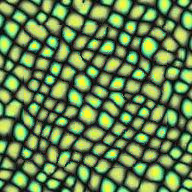
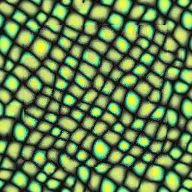
update

diff --git a/PointCloudRetouch/MultithreadTextureSynthesizer.cpp b/PointCloudRetouch/MultithreadTextureSynthesizer.cpp
@@ -137,20 +137,6 @@ void CMultithreadTextureSynthesizer/*<Scalar_t, Channel>*/::__decrease(int& vioL
 //*****************************************************************
 //FUNCTION: 
 //template <typename Scalar_t, unsigned Channel>
-void CMultithreadTextureSynthesizer/*<Scalar_t, Channel>*/::__addCacheEntry(int vLayer, int vGeneration, Eigen::Index vRowId, Eigen::Index vColId, const Color_t& vValue)
-{
-	vLayer = std::clamp(vLayer, 0, m_PyramidLayer - 1);
-	vGeneration = std::clamp(vGeneration, 0, m_GenerationNum - 1);
-	const auto& Texture = m_Cache[vLayer][vGeneration];
-
-	__wrap(Texture.rows(), vRowId);
-	__wrap(Texture.cols(), vColId);
-	m_Cache[vLayer][vGeneration].coeffRef(vRowId, vColId) = vValue;
-}
-
-//*****************************************************************
-//FUNCTION: 
-//template <typename Scalar_t, unsigned Channel>
 void CMultithreadTextureSynthesizer/*<Scalar_t, Channel>*/::__synthesizeTexture(int vLayer, int vGeneration)
 {
 	auto& Texture = m_Cache[vLayer][vGeneration];
@@ -159,11 +145,10 @@ void CMultithreadTextureSynthesizer/*<Scalar_t, Channel>*/::__synthesizeTexture(
 	for (int RowId = 0; RowId < Texture.rows(); ++RowId)
 		for (int ColId = 0; ColId < Texture.cols(); ++ColId)
 		{
-			auto CacheValue = Texture.coeff(RowId, ColId);
+			auto& CacheValue = Texture.coeffRef(RowId, ColId);
 			if (!__isAvailable(CacheValue))
 			{
 				CacheValue = __findNearestValue(vLayer, vGeneration, __buildOutputFeatureAt(vLayer, vGeneration, RowId, ColId));
-				__addCacheEntry(vLayer, vGeneration, RowId, ColId, CacheValue);
 			}
 		}
 }

diff --git a/PointCloudRetouch/MultithreadTextureSynthesizer.h b/PointCloudRetouch/MultithreadTextureSynthesizer.h
@@ -42,14 +42,13 @@ namespace hiveObliquePhotography::PointCloudRetouch
 
 		bool __increase(int& vioLayer, int& vioGeneration) const;
 		void __decrease(int& vioLayer, int& vioGeneration, Eigen::Index& vioRowId, Eigen::Index& vioColId) const;
-		void __addCacheEntry(int vLayer, int vGeneration, Eigen::Index vRowId, Eigen::Index vColId, const Color_t& vValue);
 
 		void __synthesizeTexture(int vLayer, int vGeneration);
+		Color_t __findNearestValue(int vLayer, int vGeneration, const Feature_t& vFeature) const;
+		
 		Feature_t __buildOutputFeatureAt(int vLayer, int vGeneration, Eigen::Index vRowId, Eigen::Index vColId);
 		Feature_t __buildInputFeatureAt(int vLayer, int vGeneration, Eigen::Index vRowId, Eigen::Index vColId) const;
 		Feature_t __buildFeatureAt(const Texture_t& vTexture, Eigen::Index vRowId, Eigen::Index vColId) const;
-
-		Color_t __findNearestValue(int vLayer, int vGeneration, const Feature_t& vFeature) const;
 
 		void __generateResultImage(const Texture_t& vTexture, const std::string& vOutputImagePath) const;
 	};
